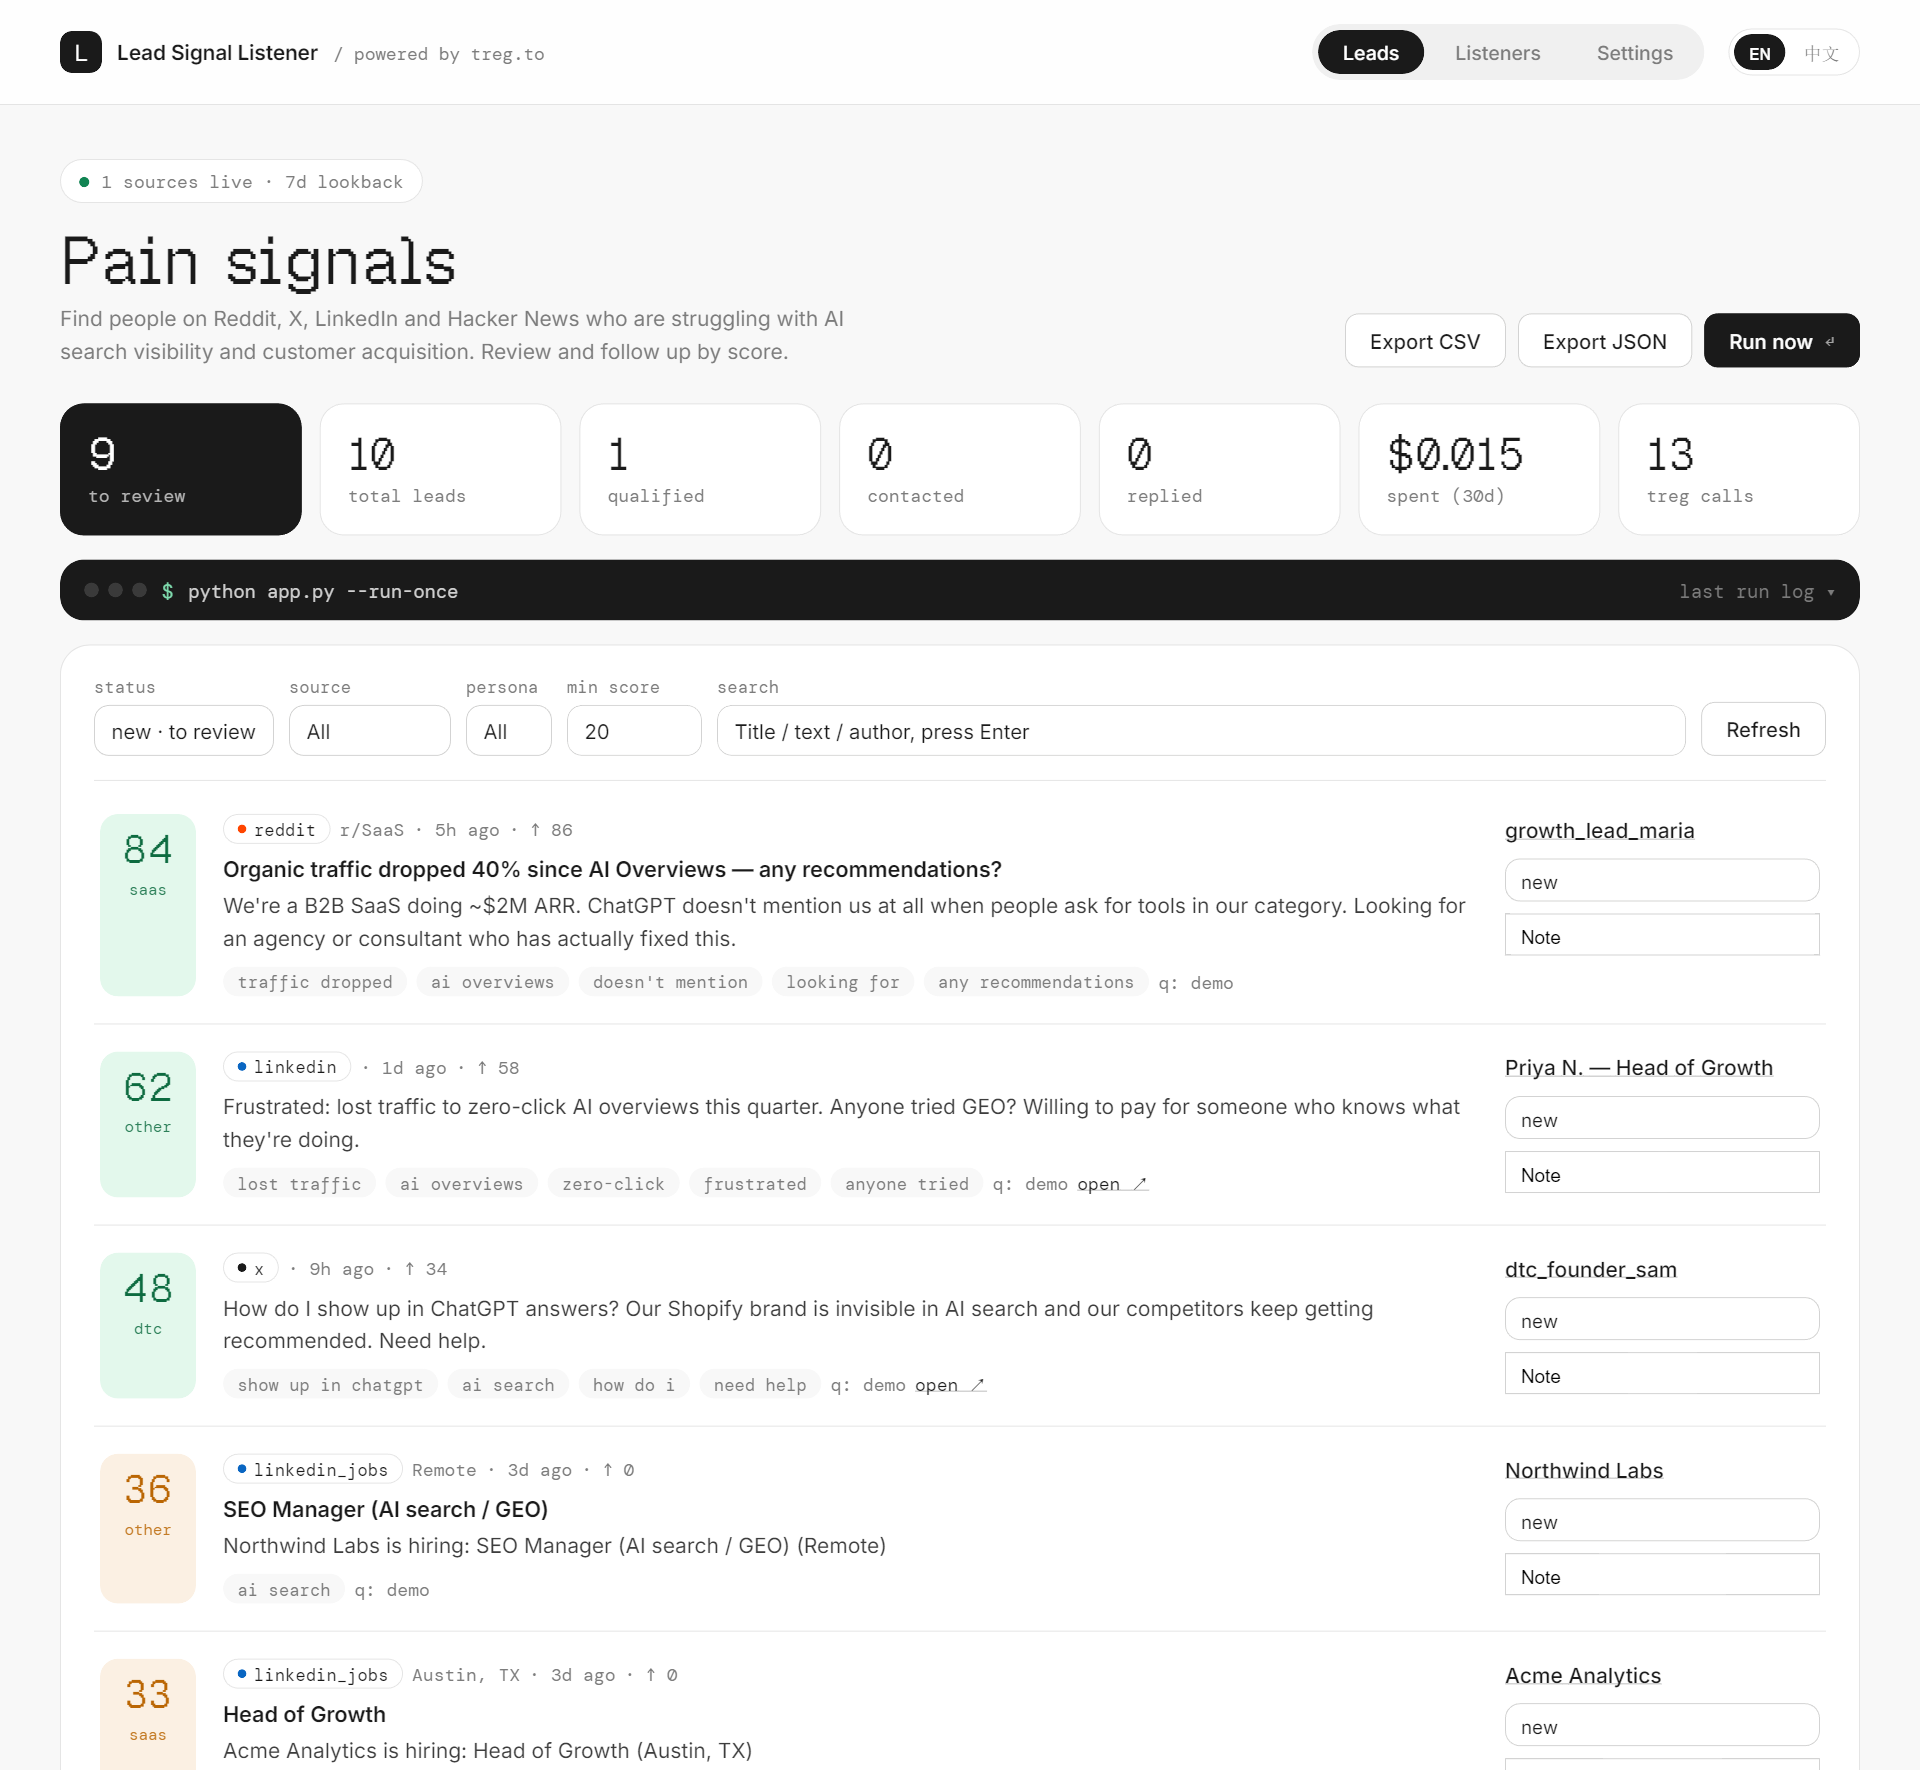
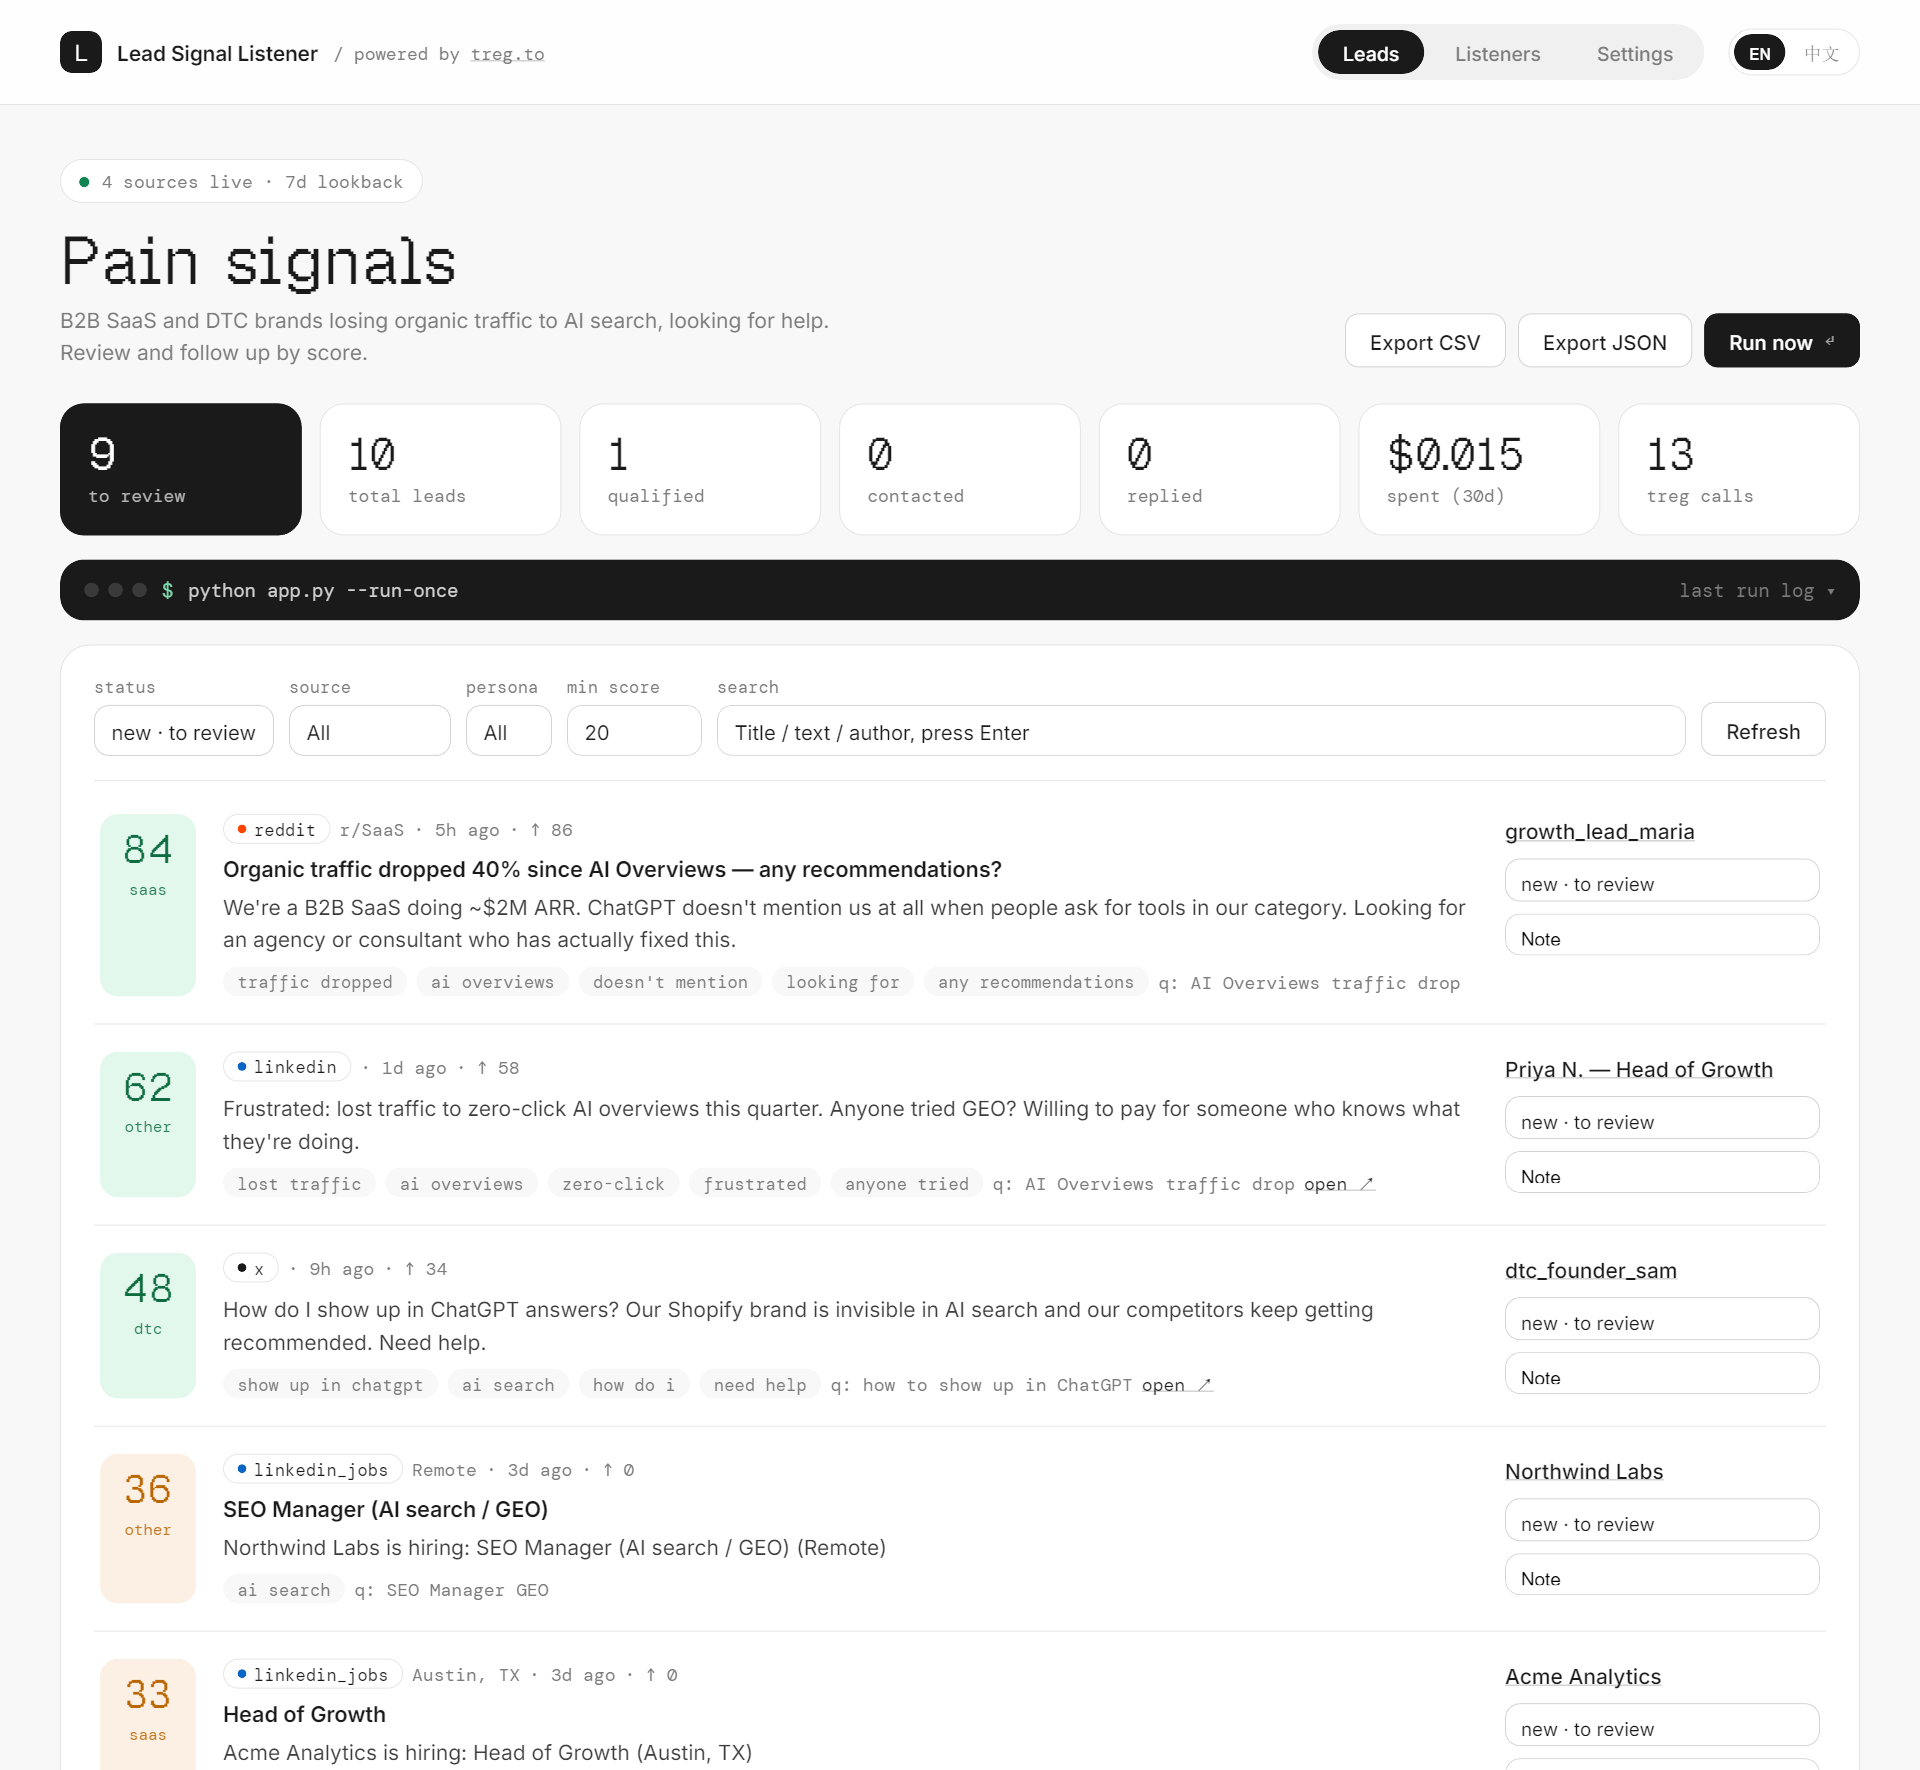
Make the Leads page describe the user's own focus, not a hardcoded audience
- New "focus" setting ("Who are you looking for?") on the Listeners page; shown on the Leads page
- When empty, the intro is generated from the enabled sources and keywords
- "N sources live" now also counts RSS and custom sources
- Docs: agent saves a one-sentence ICP as focus; default keywords/rules are clearly an example
- Refresh README screenshots

diff --git a/listener/static/index.html b/listener/static/index.html
@@ -199,7 +199,7 @@
       <div>
         <span class="kicker"><span class="dot" id="liveDot"></span><span id="kickerText">loading…</span></span>
         <h1 data-i18n="h_leads"></h1>
-        <p data-i18n="leads_intro"></p>
+        <p id="leadsIntro"></p>
       </div>
       <div class="actions">
         <a class="btn ghost" id="exportCsv" href="#" data-i18n="export_csv"></a>
@@ -241,6 +241,12 @@
       <div><span class="kicker" data-i18n="k_sources"></span><h1 data-i18n="h_sources"></h1>
         <p data-i18n="sources_intro"></p></div>
       <div class="actions"><span class="msg" id="srcMsg"></span><button class="btn" id="saveSources" data-i18n="save_config"></button></div>
+    </div>
+    <div class="card">
+      <div class="eyebrow" data-i18n="focus_eb"></div>
+      <h2 data-i18n="focus_title"></h2>
+      <p class="desc" data-i18n="focus_hint"></p>
+      <input type="text" id="focus" data-i18n-ph="focus_ph" style="width:100%" maxlength="300">
     </div>
     <div class="grid" id="srcGrid"></div>
 
@@ -323,7 +329,14 @@
 const I18N = {
   en: {
     tab_leads: "Leads", tab_sources: "Listeners", tab_settings: "Settings",
-    leads_intro: "Find people on Reddit, X, LinkedIn and Hacker News who are struggling with AI search visibility and customer acquisition. Review and follow up by score.",
+    intro_focus: f => `${f} Review and follow up by score.`,
+    intro_auto: (src, kws, more) => `Listening on ${src} for ${kws}${more ? ` and ${more} more` : ""}. Review and follow up by score.`,
+    intro_src_only: src => `Listening on ${src}. Review and follow up by score.`,
+    intro_none: "No listeners enabled yet. Open Listeners to describe who you're looking for and add keywords.",
+    list_and: " and ", quote: k => `“${k}”`,
+    focus_eb: "focus", focus_title: "Who are you looking for?",
+    focus_hint: "One sentence describing the people or companies you want to find. It's shown on the Leads page. Leave it empty to describe your listeners automatically.",
+    focus_ph: "e.g. B2B SaaS founders whose organic traffic dropped because of AI search",
     export_csv: "Export CSV", export_json: "Export JSON", run_now: "Run now", last_log: "last run log ▾", no_log: "No runs yet",
     all: "All", st_new: "new · to review", st_qualified: "qualified", st_contacted: "contacted", st_replied: "replied", st_ignored: "ignored",
     search_ph: "Title / text / author, press Enter", refresh: "Refresh",
@@ -363,7 +376,14 @@ const I18N = {
   },
   zh: {
     tab_leads: "线索", tab_sources: "监听配置", tab_settings: "设置",
-    leads_intro: "在 Reddit、X、LinkedIn 和 Hacker News 上找到正在为 AI 搜索可见度、获客发愁的人，按分数逐条审核和跟进。",
+    intro_focus: f => `${f}${/[A-Za-z0-9.,!?)"]$/.test(f) ? " " : ""}按分数逐条审核和跟进。`,
+    intro_auto: (src, kws, more) => `正在 ${src} 上监听${kws}${more ? `等 ${more + 3} 个关键词` : ""}，按分数逐条审核和跟进。`,
+    intro_src_only: src => `正在 ${src} 上监听，按分数逐条审核和跟进。`,
+    intro_none: "还没有启用任何数据源。去「监听配置」写下你要找的人，再添加关键词。",
+    list_and: "、", quote: k => `「${k}」`,
+    focus_eb: "监听目标", focus_title: "你想找什么样的人？",
+    focus_hint: "用一句话描述你要找的人或公司，会显示在线索页顶部。留空则根据启用的数据源和关键词自动生成。",
+    focus_ph: "例如：自然流量因 AI 搜索下滑的 B2B SaaS 创始人",
     export_csv: "导出 CSV", export_json: "导出 JSON", run_now: "立即运行", last_log: "最近一次运行日志 ▾", no_log: "尚未运行",
     all: "全部", st_new: "new · 待处理", st_qualified: "qualified · 合格", st_contacted: "contacted · 已联系", st_replied: "replied · 已回复", st_ignored: "ignored · 忽略",
     search_ph: "标题 / 正文 / 作者，回车搜索", refresh: "刷新",
@@ -448,15 +468,54 @@ document.querySelectorAll(".lang button").forEach(b => b.onclick = async () => {
   await loadConfig(); loadSignals(); loadStatus();
 });
 
+// Listeners that will actually run: free ones always, paid ones only with a token.
+function activeListeners() {
+  const hasToken = CONFIG.token_source !== "none";
+  const names = [], keywords = [];
+  for (const [key, s] of Object.entries(CONFIG.sources || {})) {
+    if (!s.enabled || (key !== "hn" && !hasToken)) continue;
+    names.push(SRC_META[key] ? SRC_META[key].name() : key);
+    keywords.push(...(s.queries || []));
+  }
+  const rss = CONFIG.rss || {};
+  if (rss.enabled && (rss.feeds || []).length) { names.push("RSS"); keywords.push(...(rss.keywords || [])); }
+  for (const c of CONFIG.custom_sources || []) {
+    if (!c.enabled || !hasToken) continue;
+    names.push(c.name || c.endpoint);
+    keywords.push(...(c.queries || []).filter(Boolean));
+  }
+  return {names: [...new Set(names)], keywords: [...new Set(keywords)]};
+}
+function joinList(items) {
+  if (items.length <= 1) return items.join("");
+  return LANG === "zh" ? items.join("、") : items.slice(0, -1).join(", ") + T("list_and") + items[items.length - 1];
+}
+function renderIntro(active) {
+  const focus = (CONFIG.focus || "").trim();
+  let text;
+  if (focus) text = T("intro_focus", /[.!?。！？]$/.test(focus) ? focus : focus + (LANG === "zh" ? "。" : "."));
+  else if (!active.names.length) text = T("intro_none");
+  else {
+    const shown = active.keywords.slice(0, 3).map(k => T("quote", k));
+    const more = Math.max(0, active.keywords.length - 3);
+    // zh: 「a」「b」「c」; en: “a”, “b”, “c” and N more  /  “a” and “b”
+    const kws = LANG === "zh" ? shown.join("") : (more ? shown.join(", ") : joinList(shown));
+    text = shown.length ? T("intro_auto", joinList(active.names), kws, more) : T("intro_src_only", joinList(active.names));
+  }
+  $("leadsIntro").textContent = text;
+}
+
 async function loadConfig() {
   CONFIG = await api("/api/config");
   $("token").value = "";
   $("token").placeholder = CONFIG.treg_token && CONFIG.treg_token !== "set" ? CONFIG.treg_token : "trg_live_...";
   $("tokenState").textContent = {env: T("tok_env"), file: T("tok_file") + CONFIG.treg_token, none: T("tok_none")}[CONFIG.token_source];
   $("tokenDot").className = "dot" + (CONFIG.token_source === "none" ? "" : " live");
-  const enabled = Object.entries(CONFIG.sources).filter(([k, s]) => s.enabled && (k === "hn" || CONFIG.token_source !== "none")).length;
-  $("kickerText").textContent = T("kicker", enabled, CONFIG.lookback_days);
-  $("liveDot").className = "dot" + (enabled ? " live" : "");
+  const active = activeListeners();
+  $("kickerText").textContent = T("kicker", active.names.length, CONFIG.lookback_days);
+  $("liveDot").className = "dot" + (active.names.length ? " live" : "");
+  renderIntro(active);
+  $("focus").value = CONFIG.focus || "";
   $("lookback").value = CONFIG.lookback_days; $("perCall").value = CONFIG.max_cost_per_call_usd;
   $("perRun").value = CONFIG.max_cost_per_run_usd; $("schedule").value = CONFIG.schedule_hours; $("minKeep").value = CONFIG.min_score_to_keep;
   $("rules").value = JSON.stringify(CONFIG.rules, null, 2);
@@ -508,7 +567,8 @@ $("saveSources").onclick = async () => {
   }
   const lines = id => $(id).value.split("\n").map(x => x.trim()).filter(Boolean);
   const rss = {enabled: $("rssEnabled").checked, feeds: lines("rssFeeds"), keywords: lines("rssKeywords")};
-  try { await api("/api/config", {method: "POST", body: JSON.stringify({sources, rss})}); await loadConfig(); flash($("srcMsg"), T("saved")); }
+  const focus = $("focus").value.trim();
+  try { await api("/api/config", {method: "POST", body: JSON.stringify({sources, rss, focus})}); await loadConfig(); flash($("srcMsg"), T("saved")); }
   catch (e) { flash($("srcMsg"), e.message, false); }
 };
 $("saveCustom").onclick = async () => {

diff --git a/listener/config.py b/listener/config.py
@@ -20,6 +20,8 @@ DEFAULT_CONFIG = {
     "treg_token": "",
     "treg_org": "",
     "lang": "en",
+    # One sentence describing who you're looking for; shown on the Leads page.
+    "focus": "",
     "lookback_days": 7,
     "max_cost_per_call_usd": 0.05,
     "max_cost_per_run_usd": 1.0,

diff --git a/AGENT_SETUP.md b/AGENT_SETUP.md
@@ -72,7 +72,7 @@ Keywords and scoring are only as good as your understanding of the buyer. Ask th
 6. **Noise to exclude:** Who uses the same words but is *not* a buyer? (competitors and agencies promoting themselves, job seekers, students, vendors…)
 7. **Budget:** How much per run and per month is OK to spend on paid sources?
 
-Summarize the answers back as a one-paragraph ideal customer profile (ICP) and get a yes before moving on.
+Summarize the answers back as a one-paragraph ideal customer profile (ICP) and get a yes before moving on. Then condense it into **one sentence** and save it as `focus` (Step 6). It's shown at the top of the Leads page, e.g. *"B2B SaaS founders whose organic traffic dropped because of AI search."*
 
 ## Step 4 — Propose keywords
 
@@ -120,6 +120,7 @@ curl -s -X POST http://127.0.0.1:8787/api/config -H "Content-Type: application/j
 
 ```json
 {
+  "focus": "B2B SaaS founders whose organic traffic dropped because of AI search.",
   "lookback_days": 7,
   "max_cost_per_call_usd": 0.05,
   "max_cost_per_run_usd": 0.5,

diff --git a/README.zh-CN.md b/README.zh-CN.md
@@ -41,10 +41,12 @@ python app.py            # 打开 http://127.0.0.1:8787（Windows 可双击 star
 ```
 
 1. **Settings / 设置** → 粘贴 Treg token → 保存 → 校验
-2. **Listeners / 监听配置** → 启用数据源，每行填一个关键词
+2. **Listeners / 监听配置** → 写下你要找什么样的人，启用数据源，每行填一个关键词
 3. **Leads / 线索** → 点「立即运行」，按分数审核，修改状态、写备注，导出 CSV / JSON
 
 没有 token 也能用：Hacker News、RSS 和导入这几种免费方式照常工作。
+
+默认的关键词和打分规则只是一个**示例**（寻找为 AI 搜索可见度发愁的公司）。请换成你自己的：任何人群、任何问题都可以。线索页顶部的介绍会根据你的配置自动变化。
 
 界面默认英文，右上角的 `EN / 中文` 可以切换，选择会保存在浏览器里，运行日志也会跟着切换语言。
 

diff --git a/README.md b/README.md
@@ -41,10 +41,12 @@ python app.py            # opens http://127.0.0.1:8787  (Windows: double-click s
 ```
 
 1. **Settings** → paste your Treg token → Save → Verify
-2. **Listeners** → enable sources and add keywords (one per line)
+2. **Listeners** → describe who you're looking for, enable sources and add keywords (one per line)
 3. **Leads** → **Run now**, review by score, set a status, add notes, export CSV/JSON
 
 No token? The free sources still work: Hacker News, RSS and import.
+
+The default keywords and scoring rules are only an **example** (finding companies that struggle with AI search visibility). Replace them with your own: any audience, any problem. The Leads page describes whatever you configure.
 
 The UI defaults to English. Use the `EN / 中文` toggle in the top-right corner to switch.
 
